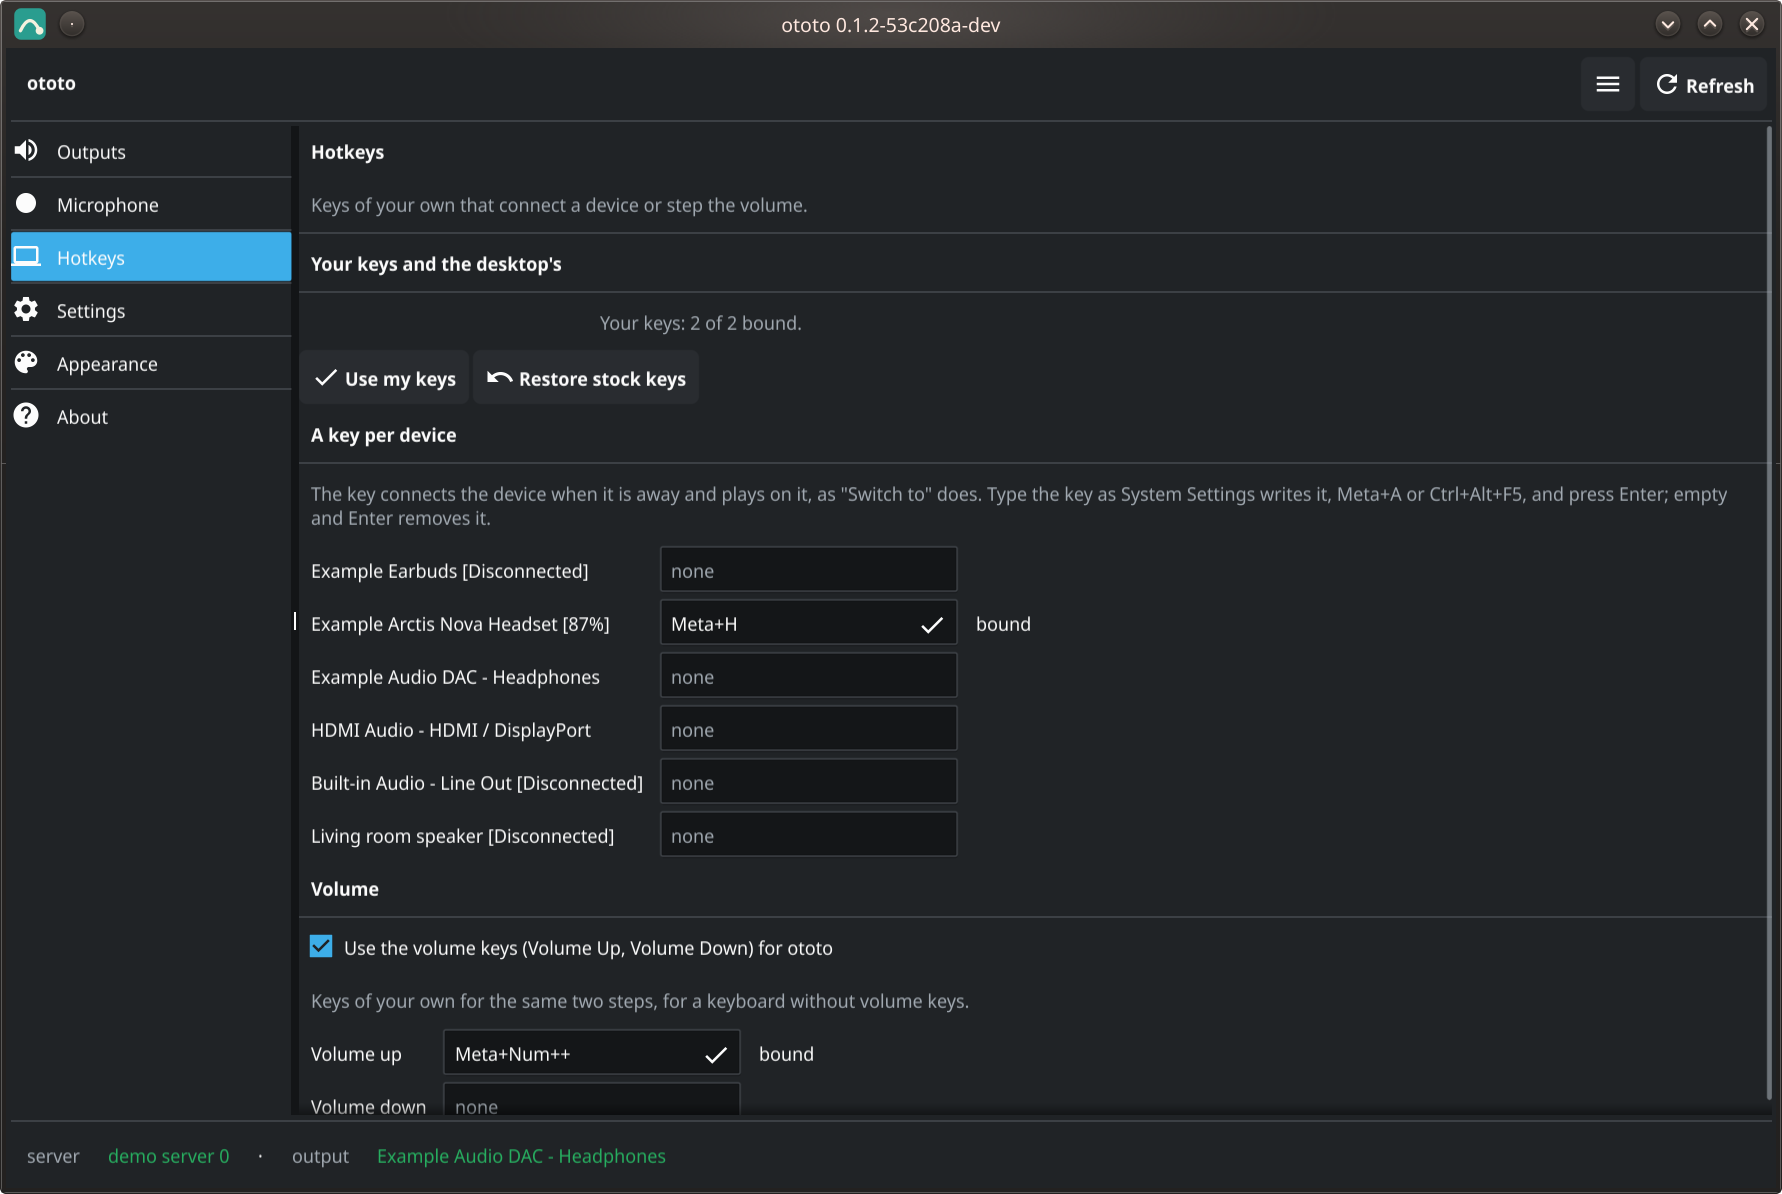
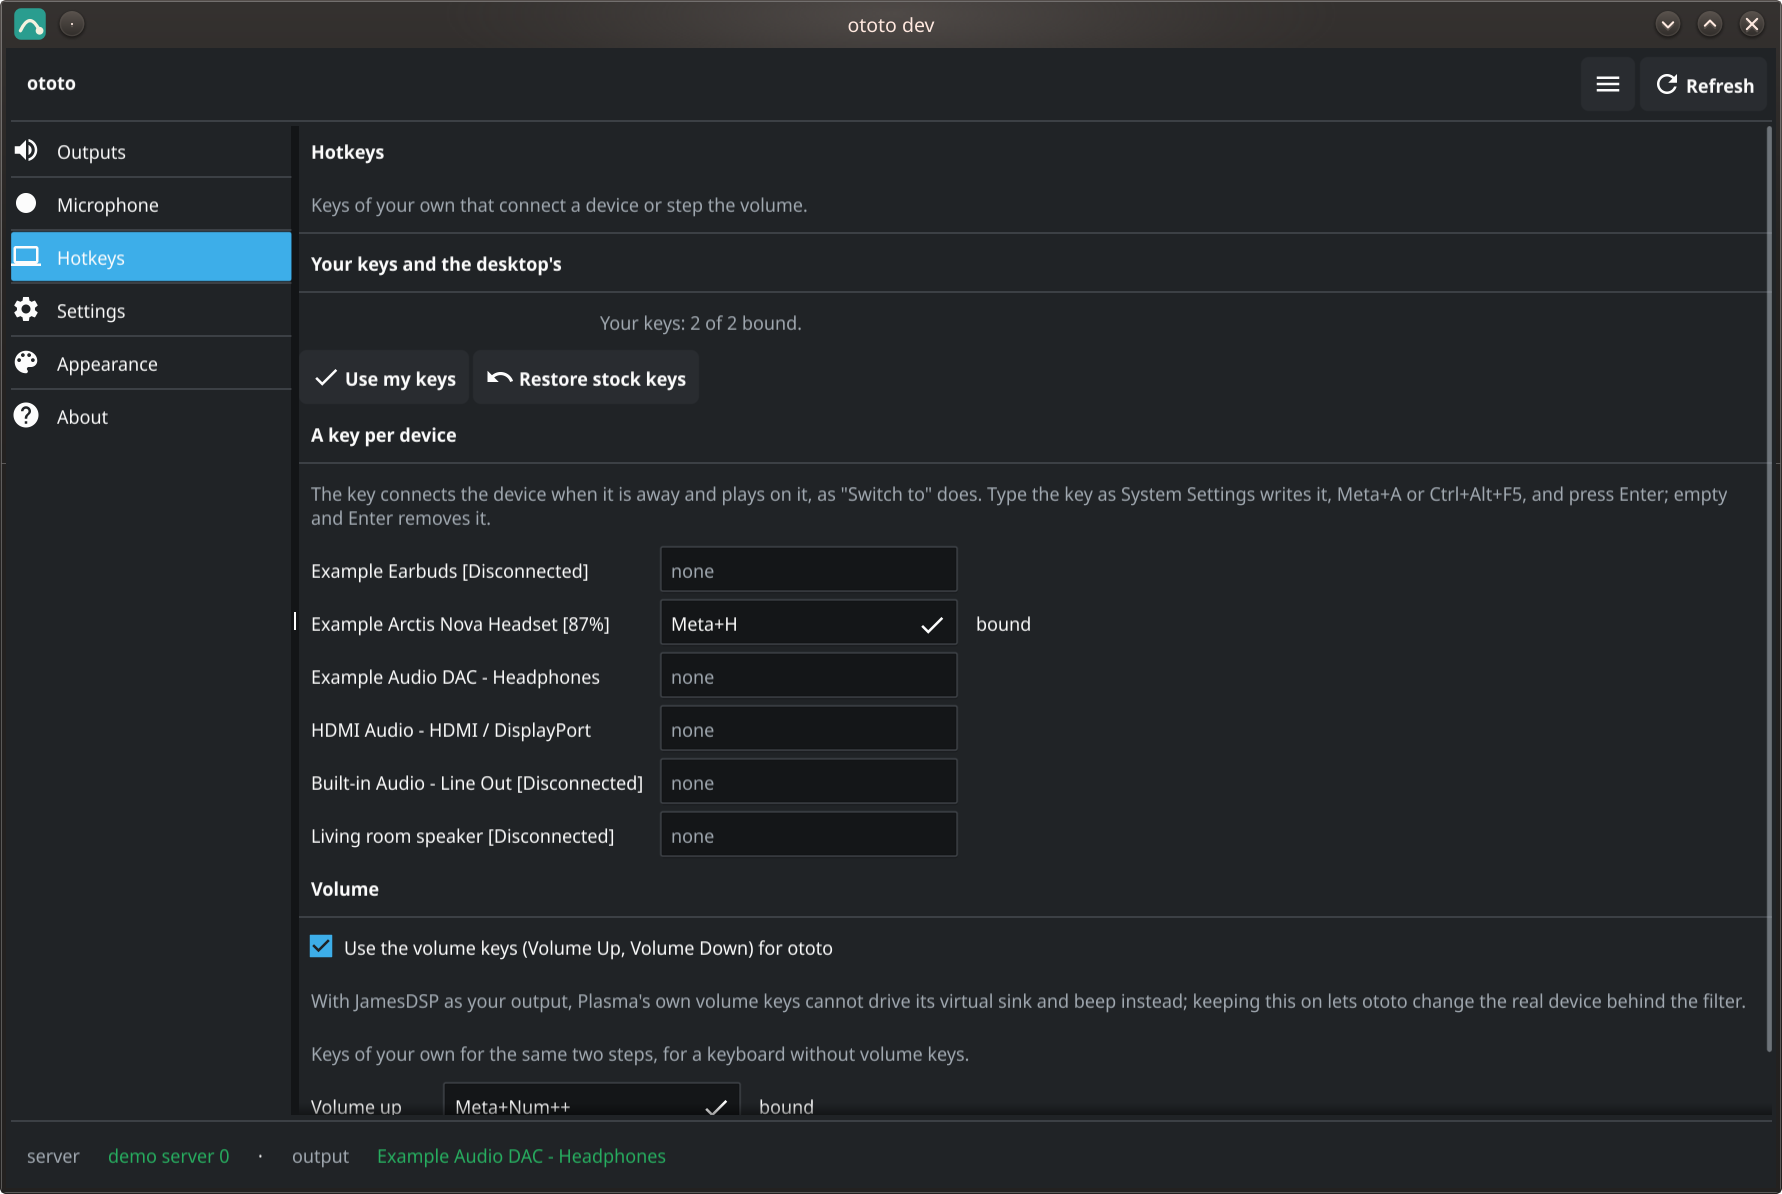
docs: Hotkeys note for JamesDSP volume, changelog, spec 002 complete
Closes #30. Adds the note that with JamesDSP as the output, Plasma's own
volume keys beep on the virtual sink so ototo's should stay on; records the
crash, service-cache and volume-tracking fixes in the changelog; marks
spec 002 complete with its executive summary; refreshes the Hotkeys
screenshot.

Changed region(s): [[0.1852, 0.8367, 0.9259, 0.9296], [0.4321, 0.0, 0.5556, 0.031], [0.9877, 0.8677, 1.0, 0.9296]]

diff --git a/internal/gui/views_hotkeys.go b/internal/gui/views_hotkeys.go
@@ -173,6 +173,8 @@ func (u *ui) volumeKeysCard() fyne.CanvasObject {
 	return widgets.Card("Volume",
 		widgets.WithTip(keys, "Volume Up and Volume Down run ototo, which changes the volume and shows the "+
 			"indicator. What held the keys before is recorded and released; turned off, the keys go back to it."),
+		widgets.DimWrapped("With JamesDSP as your output, Plasma's own volume keys cannot drive its virtual "+
+			"sink and beep instead; keeping this on lets ototo change the real device behind the filter."),
 		widgets.DimWrapped("Keys of your own for the same two steps, for a keyboard without volume keys."),
 		keysForm(slices.Concat(
 			pair(u.keyRow("Volume up", up, upOK, func(key string) {

diff --git a/specs/002-hotkeys-section.md b/specs/002-hotkeys-section.md
@@ -2,11 +2,20 @@
 
 **Issue**: #30
 
-## Status: INCOMPLETE
+## Status: COMPLETE
 
 ## Executive Summary
 
-(populated before the PR)
+A Hotkeys section: a key per device, keys for the volume steps, the volume
+keys switch, and one click each way between the person's keys and the
+desktop's own, saved in the settings file. Landing it surfaced three
+KGlobalAccel realities that this spec now handles: registration must run
+with global shortcuts blocked or a key press crashes kwin_wayland; a command
+shortcut is not launchable until the service cache is rebuilt; and the
+volume keys, taken from Plasma, must step from the level ototo aims at so a
+Bluetooth headset's slow, coarse volume reporting does not bounce. On a
+desktop without KDE's shortcut service the section is an editable page of the
+commands to bind by hand.
 
 ## Context
 
@@ -115,13 +124,13 @@ program cannot bind anything, and says how the person can.
 
 ## Acceptance Criteria
 
-- [ ] R1: the config carries hotkeys and the switch; a key set twice moves; bindings made before this spec are adopted once, tested with a fake applications dir.
-- [ ] R2: core operations over a fake binder, with tests for set/move/remove, all-off restoring holders in order, all-on, the two one-click operations, and errors joined and reported.
-- [ ] R3: `Bind` records what it released and `Unbind` gives it back (tested over a fake shortcuts file for the record; the bus calls exercised on this desktop); `ListBindings` parses the person's four entries; `HotkeysSupported` false without the bus.
-- [ ] R4: the section over the demo server in both states, screenshot in the gallery; the volume-keys switch is in Hotkeys and not in Settings.
-- [ ] `--desktop bind/unbind` go through core and land in the file.
-- [ ] Verified on the desktop: the four existing keys adopted and listed; a key changed, removed and put back; Restore stock gives Volume Up/Down back to the mixer and Meta+A to nothing; Use my keys puts all back; the AirPods key connects them.
-- [ ] README: the Hotkeys section, the generic commands, the changelog.
+- [x] R1: the config carries hotkeys and the switch; a key set twice moves; bindings made before this spec are adopted once, tested with a fake applications dir.
+- [x] R2: core operations over a fake binder, with tests for set/move/remove, all-off restoring holders in order, all-on, the two one-click operations, and errors joined and reported.
+- [x] R3: `Bind` records what it released and `Unbind` gives it back (tested over a fake shortcuts file for the record; the bus calls exercised on this desktop); `ListBindings` parses the person's four entries; `HotkeysSupported` false without the bus.
+- [x] R4: the section over the demo server in both states, screenshot in the gallery; the volume-keys switch is in Hotkeys and not in Settings.
+- [x] `--desktop bind/unbind` go through core and land in the file.
+- [x] Verified on the desktop: the four existing keys adopted and listed; a key changed, removed and put back; Restore stock gives Volume Up/Down back to the mixer and Meta+A to nothing; Use my keys puts all back; the AirPods key connects them.
+- [x] README: the Hotkeys section, the generic commands, the changelog.
 
 ## Risks & Assumptions
 

diff --git a/README.md b/README.md
@@ -253,7 +253,17 @@ window does not carry pictures of the window.
   keys" puts them all back. Keys bound from the command line before this
   are adopted into the settings the first time the section reads them. On
   a desktop that is not KDE Plasma the section is a page of the commands
-  to bind yourself.
+  to bind yourself, editable and saved, with the running binary's own path.
+- **Binding a key is done under a shortcut block** so a key press cannot
+  land in KGlobalAccel while a shortcut is half registered, which crashed
+  kwin_wayland. Taking a key releases every stale holder of it, and the
+  bound state is read from the live registry.
+- **The service cache is rebuilt after writing a shortcut** (kbuildsycoca),
+  so a bound key launches at once instead of doing nothing until KDE next
+  notices the change.
+- **A volume key steps from the level ototo aims at**, not the sink's own
+  reading, so a Bluetooth headset that reports its volume back slowly and
+  in coarse steps (AirPods) no longer jumps the volume forward and back.
 
 - On a disconnect the indicator no longer names JamesDSP for a moment
   before the device the switch lands on: a floating filter is no output,
